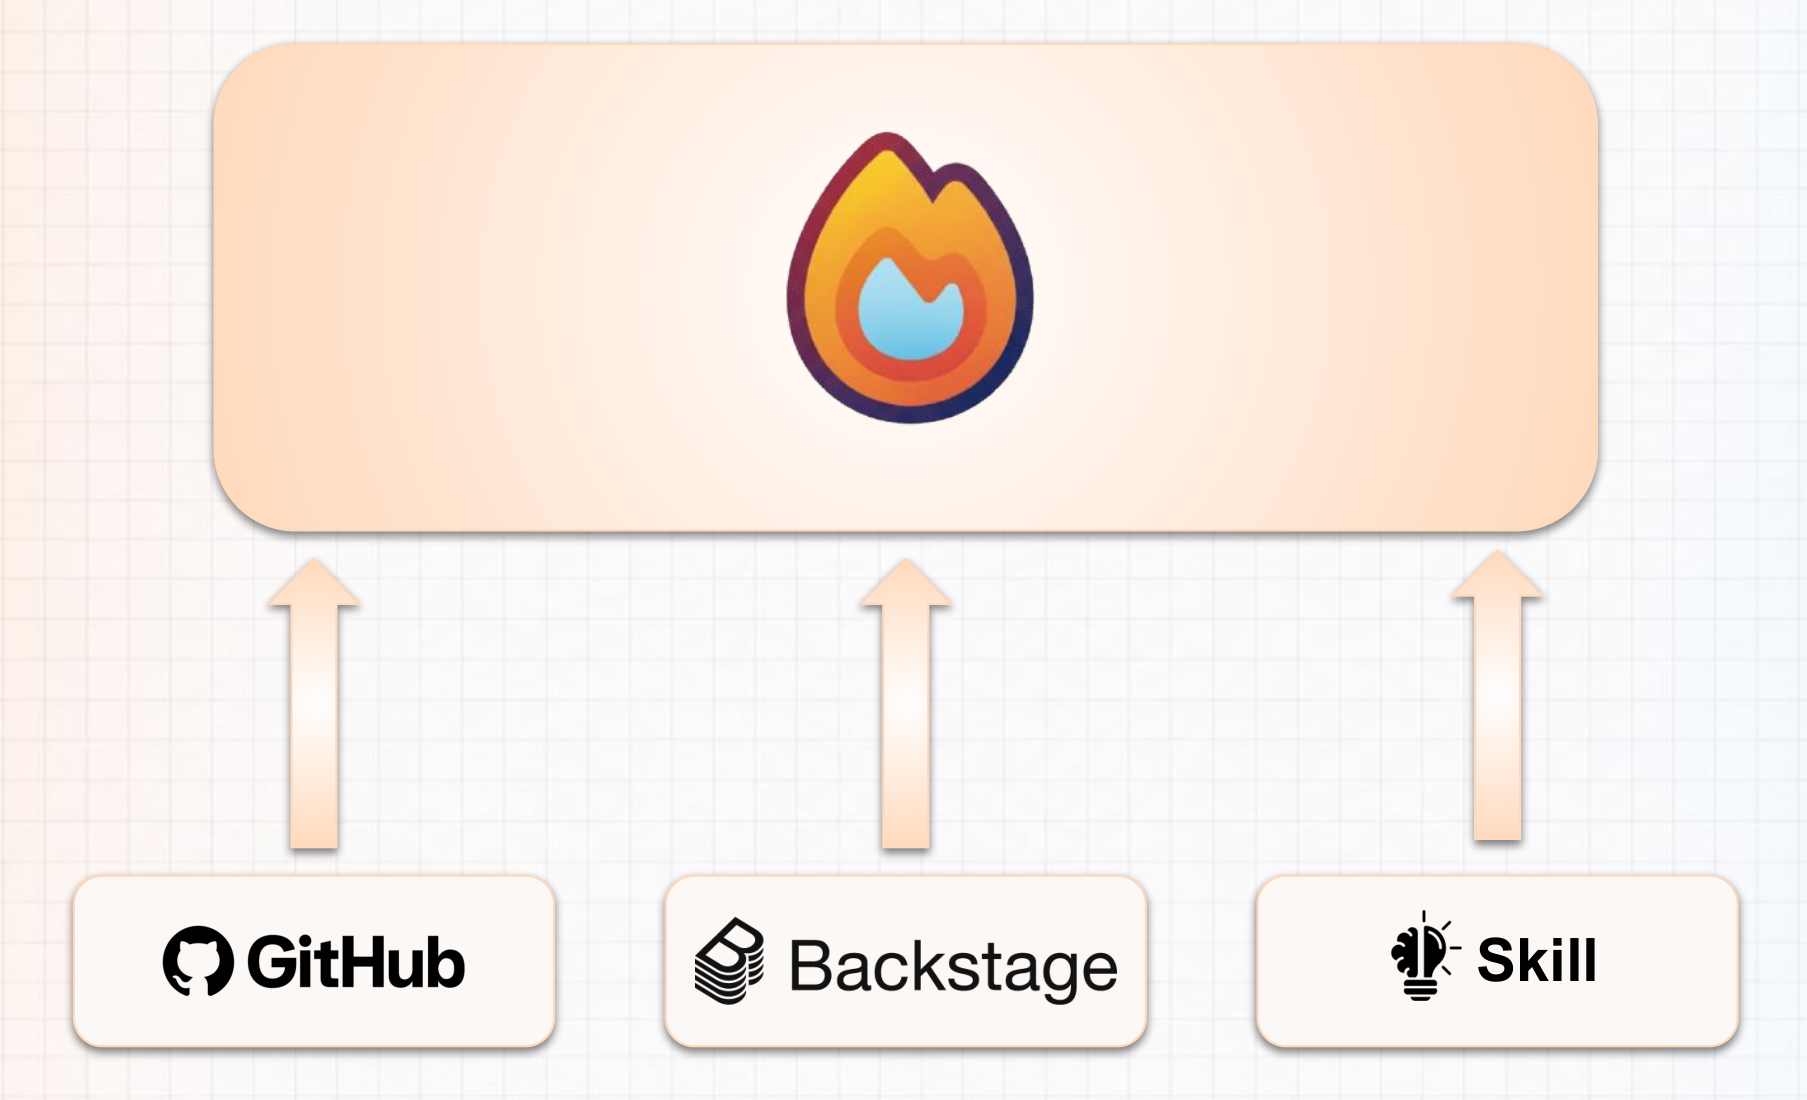
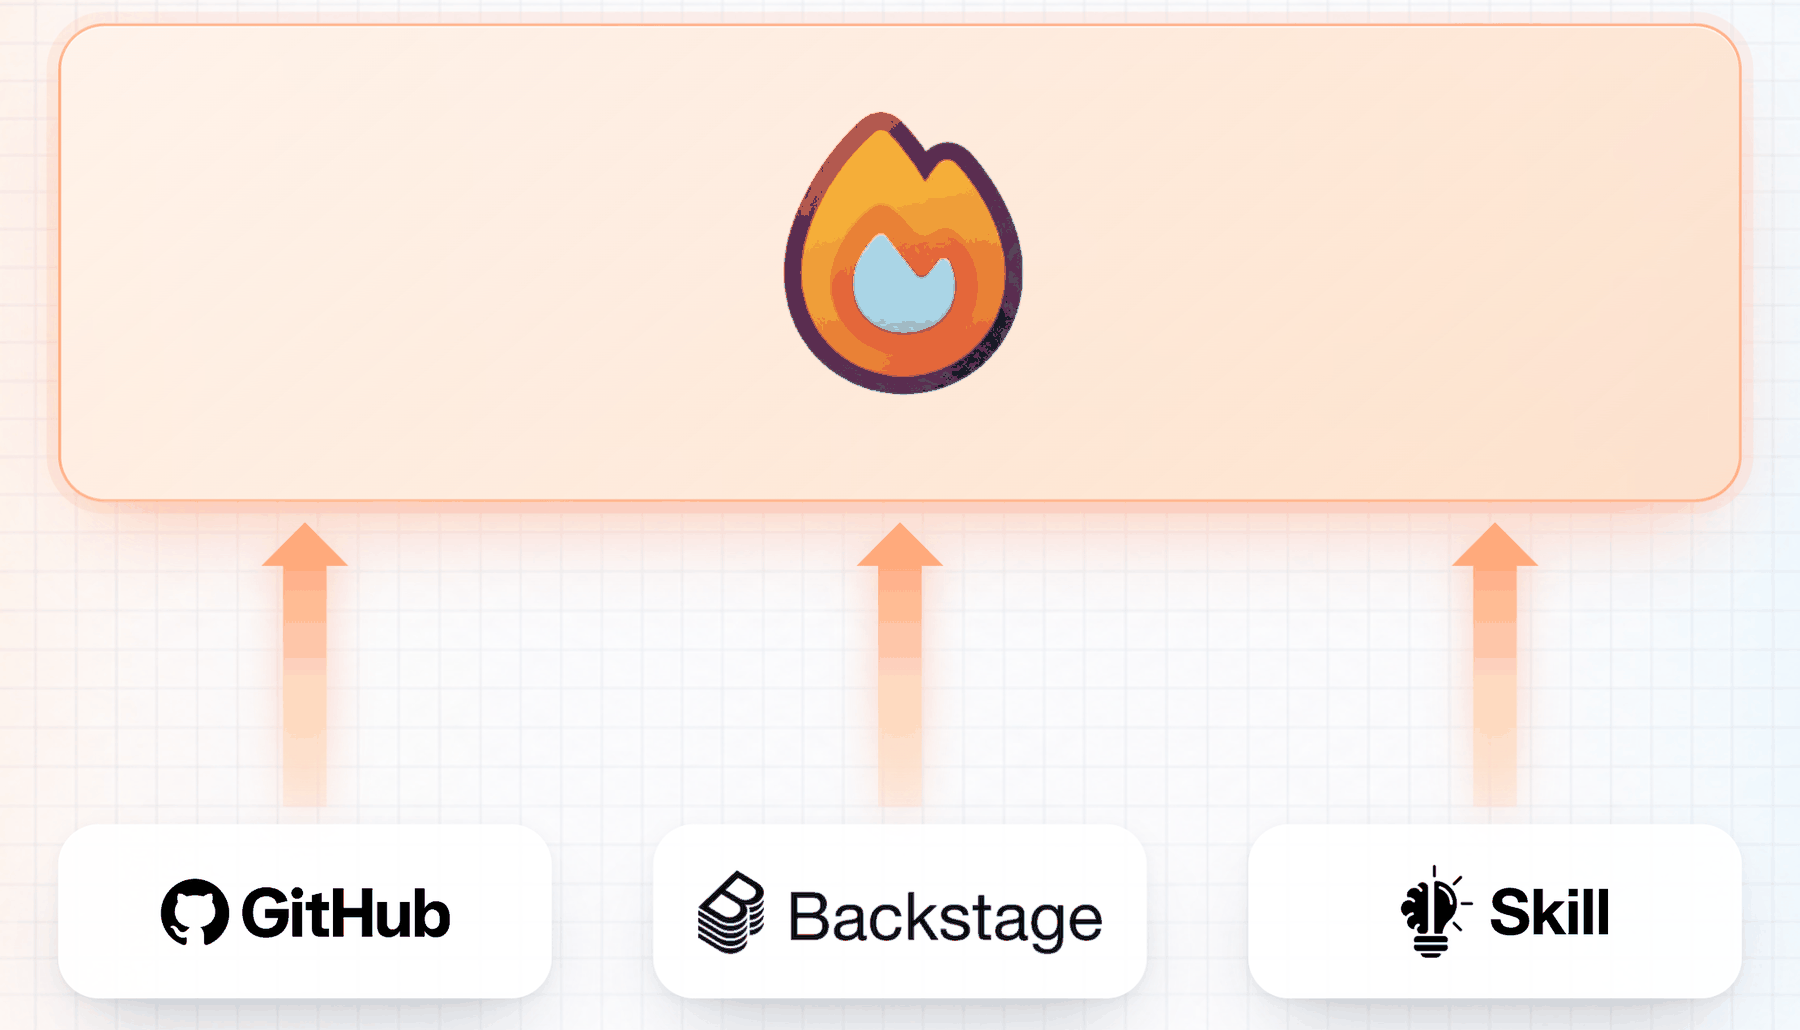
docs: add diagrams to the homepage (#30)
* docs: add diagrams to the homepage

Add an intro overview, the chaos diagram, the organized map, and the
skill instruction flow; replace the control surfaces image with the
current deck version; align the Skill section with the instruction flow.

* fix: point features docs/ links to GitHub

The features README is the root README of prefapp/features. Its links to
the repository-level docs/ folder (docs/local-testing.md) have no page on
the site, which broke the internal-link check and every deploy since the
2026-09-25 features promotion.

---------

diff --git a/site/homepage/_index.md b/site/homepage/_index.md
@@ -9,6 +9,8 @@ to your needs. It gives an organization one explicit map of its software — and
 people responsible for it — and then acts on that map to create and maintain the
 repositories, pipelines, and infrastructure the software needs.
 
+![Firestartr sits between a map of the organization — domains, systems, components, teams, features, and infrastructure — and the GitHub, AWS, and Azure resources it creates and maintains](./images/firestartr-overview.png)
+
 ## When software outgrows the organization
 
 It usually starts small: a few repositories, and everyone knows who owns what. As teams
@@ -17,6 +19,8 @@ and products multiply, that shared understanding disappears.
 - Every repository grows its own CI/CD setup, with little convention across them.
 - The architecture becomes opaque: nothing describes how the pieces relate.
 - Permissions accumulate person by person, so responsibility turns diffuse.
+
+![Four people hold tangled admin, write, and read permissions over nine loose repositories, under clouds labeled opaque architecture, CI/CD per repo, duplicated configuration, ad-hoc solutions, and individual permissions](./images/organization-chaos.png)
 
 The software still runs, but the organization no longer has a model of it. Firestartr
 makes that model explicit before automating anything on top of it.
@@ -83,16 +87,36 @@ same model.
 
 ## How the Skill carries instructions
 
-The [Skill](https://github.com/prefapp/skills) does not act directly. An instruction travels a path of three stages:
+The [Skill](https://github.com/prefapp/skills) does not act directly. A request travels
+a fixed path before anything changes:
 
-1. **fs-forge** — the step that issues the instruction to Firestartr.
-2. **agent** — interprets the instruction against the map and works out what must
-   change.
-3. **skill** — carries the change out against the mapped components, using their
-   features and supporting infrastructure.
+1. **agent** — the AI agent you talk to, with the Firestartr skill loaded.
+2. **skill** — interprets the request against the map and turns it into Firestartr
+   instructions.
+3. **fs-forge** — the command-line tool the skill uses to hand those instructions to
+   Firestartr.
 
-Because every stage works from the same map, the result stays consistent with the
-organization's structure instead of drifting away from it.
+Firestartr then applies the change where the software lives: GitHub, AWS, and Azure.
+
+![An agent running the Firestartr skill sends instructions through fs-forge to Firestartr, which acts on GitHub, AWS, and Azure](./images/skill-instruction-flow.png)
+
+The skill interprets; the CLI executes. Because every stage works from the same map, the
+result stays consistent with the organization's structure instead of drifting away from
+it.
+
+## From chaos to a clear map
+
+Put together, the pieces replace the tangle from the start of this page with a structure
+anyone can read:
+
+- Every repository is a component with a place in a system.
+- Every system belongs to a domain of the business.
+- People belong to teams, and each team owns the components of a system.
+
+![People grouped into team-inventory and team-checkout, each team the owner of one system in the commerce domain, and each system listing its components](./images/organization-mapped.png)
+
+The same software, now with a model the organization can rely on — and one Firestartr can
+act on.
 
 ## Where to go next
 
